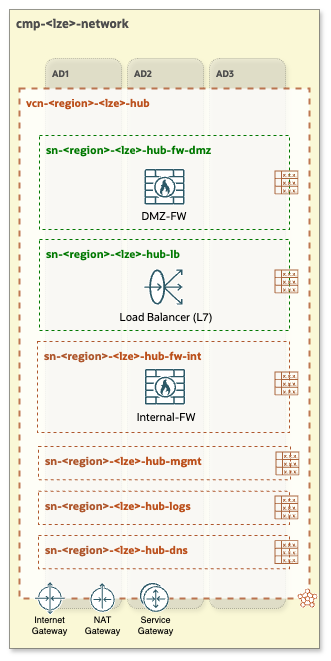
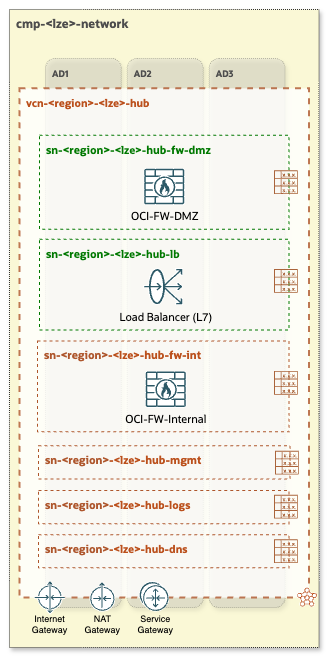
updates on images and readme
Former-commit-id: 9568c0cca0dac2d319f824d78903c3b637a5c02f

diff --git a/addons/oci-hub-models/hub_a/readme.md b/addons/oci-hub-models/hub_a/readme.md
@@ -10,10 +10,10 @@
 
 #### The main components of a **Hub A**:
 - VCN (Virtual Cloud Network)
-- Two Public subnets (depicted in green)
+- Two regional public subnets (depicted in green)
     1. public-subnet for DMZ/external OCI Network Firewall
     2. public-subnet for Public Load Balancers
-- Four Private subnets (depicted in dark-orange)
+- Four regional private subnets (depicted in dark-orange)
     1. private-subnet for Internal OCI Network Firewall
     2. private-subnet for managment workloads
     3. private-subnet for logs

diff --git a/addons/oci-hub-models/hub_b/readme.md b/addons/oci-hub-models/hub_b/readme.md
@@ -12,9 +12,9 @@
 
 #### The main components of a **Hub B**:
 - VCN (Virtual Cloud Network)
-- One Public subnet (depicted in green)
+- One regional public subnet (depicted in green)
     1. public-subnet for Public Load Balancers
-- Four Private subnets (depicted in dark-orange)
+- Four regional private subnets (depicted in dark-orange)
     1. private-subnet for OCI Network Firewall
     2. private-subnet for managment workloads
     3. private-subnet for logs
